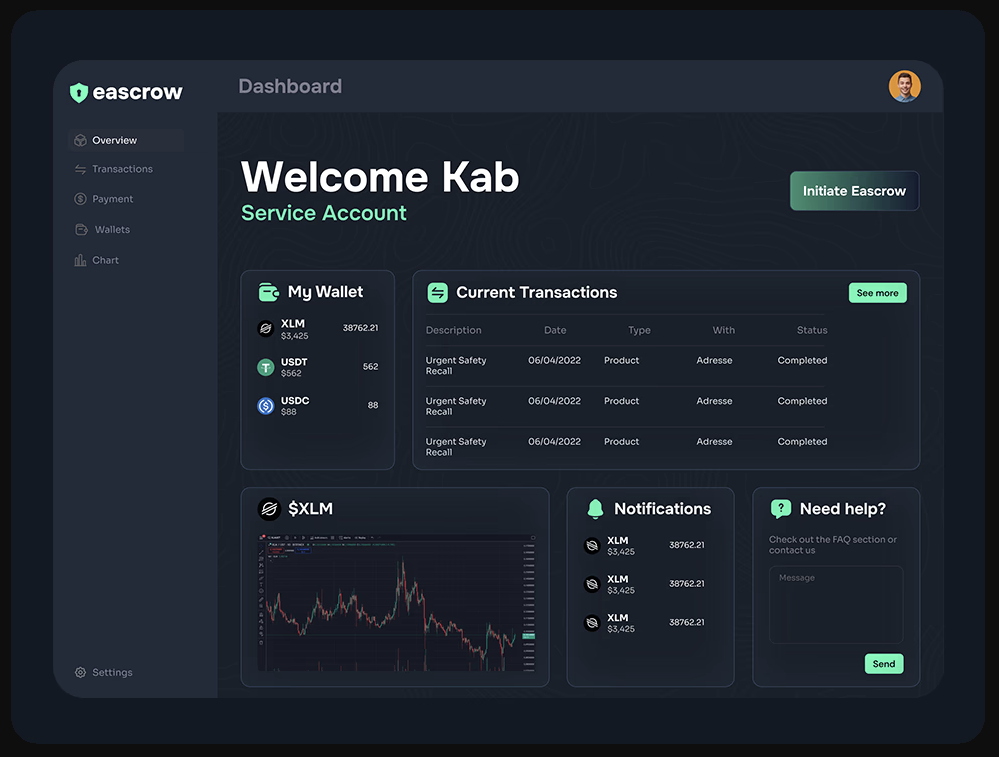
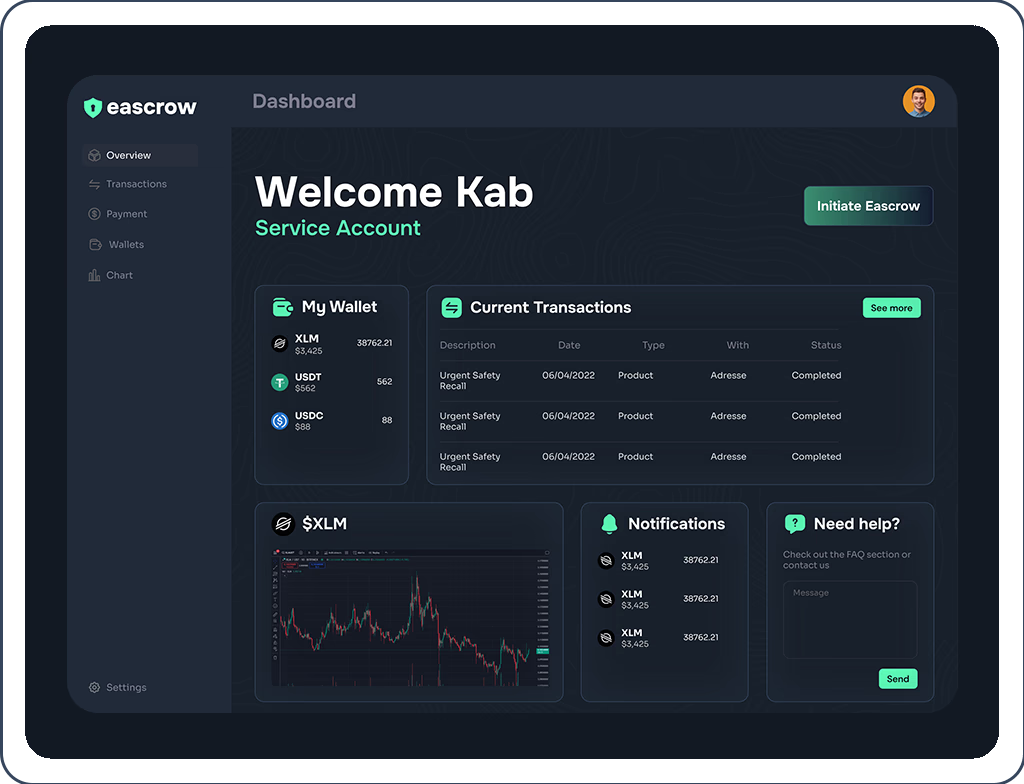
update background wave && shadow-inner in Card

diff --git a/eascrow_website/app/page.tsx b/eascrow_website/app/page.tsx
@@ -30,8 +30,8 @@ export default function Home() {
           </Button>
         </Link>
       </div>
-      <section className="flex flex-col items-center space-y-4">
-        <div className="w-full max-w-4xl rounded-[25px] border-gray-700 overflow-hidden">
+      <section className="flex flex-col items-center space-y-4 bg-custom-bg bg-local bg-contain bg-no-repeat md:bg-cover">
+        <div className="w-5/6 sm:w-3/4 max-w-4xl rounded-[25px] overflow-hidden">
           <Image
             src="/dashboard.png"
             alt="Dashboard overview"
@@ -100,7 +100,7 @@ export default function Home() {
               </p>
             </div>
             <div className="w-full px-2 space-y-6 lg:space-y-0 flex flex-col lg:flex-row items-center lg:justify-evenly">
-              <Card className="max-w-xs bg-transparent border-gray-700 rounded-[30px] w-full h-[400px] shadow-inner flex flex-col items-center text-center">
+              <Card className="max-w-xs bg-transparent border-gray-700 rounded-[30px] w-full h-[400px] shadow-inner shadow-blueGray flex flex-col items-center text-center">
                 <div className="w-16 h-16 shadow-lg shadow-black rounded-full flex justify-center items-center bg-[#212b38] my-10">
                   <Box color="#5cffb8" />
                 </div>
@@ -116,7 +116,7 @@ export default function Home() {
                   </p>
                 </CardContent>
               </Card>
-              <Card className="max-w-xs bg-transparent border-gray-700 rounded-[30px] w-full h-[400px] shadow-inner flex flex-col items-center text-center">
+              <Card className="max-w-xs bg-transparent border-gray-700 rounded-[30px] w-full h-[400px] shadow-inner shadow-blueGray flex flex-col items-center text-center">
                 <div className="w-16 h-16 shadow-lg shadow-black rounded-full flex justify-center items-center bg-[#212b38] my-10">
                   <ContactRound color="#5cffb8" />
                 </div>
@@ -132,7 +132,7 @@ export default function Home() {
                   </p>
                 </CardContent>
               </Card>
-              <Card className="max-w-xs bg-transparent border-gray-700 rounded-[30px] w-full h-[400px] shadow-inner flex flex-col items-center text-center">
+              <Card className="max-w-xs bg-transparent border-gray-700 rounded-[30px] w-full h-[400px] shadow-inner shadow-blueGray flex flex-col items-center text-center">
                 <div className="w-16 h-16 shadow-lg shadow-black rounded-full flex justify-center items-center bg-[#212b38] my-10">
                   <Truck color="#5cffb8" />
                 </div>

diff --git a/eascrow_website/components/shared/MenuBurger.tsx b/eascrow_website/components/shared/MenuBurger.tsx
@@ -18,7 +18,7 @@ const MenuBurger = () => {
       {isOpen ? (
         <>
           <X onClick={handleOpen} className="sm:hidden" />
-          <NavigationMenu className="absolute left-0 top-20 min-w-full flex flex-col items-start p-7 space-y-4 text-slate-400 bg-radial-gradient-center shadow-lg shadow-bgDark rounded-lg ">
+          <NavigationMenu className="absolute left-0 top-20 min-w-full flex flex-col items-start p-7 space-y-4 text-slate-400 bg-radial-gradient-center rounded-md">
             <NavigationMenuLink href="/about">About</NavigationMenuLink>
             <NavigationMenuLink href="/">Feature</NavigationMenuLink>
             <NavigationMenuLink href="/">Pricing</NavigationMenuLink>

diff --git a/eascrow_website/tailwind.config.ts b/eascrow_website/tailwind.config.ts
@@ -117,7 +117,7 @@ const config = {
           'radial-gradient(circle at center,#19212B, #001122 )',
         'custom-gradient':
           'linear-gradient(90deg, rgba(68,144,111,0.5018382352941176) 0%, rgba(0,17,34,0.7959558823529411) 88%)',
-        'custom-bg': "url('/background.png')",
+        'custom-bg': "url('/wave.png')",
       },
     },
   },
